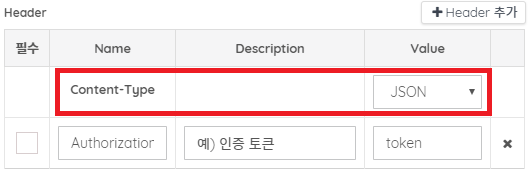
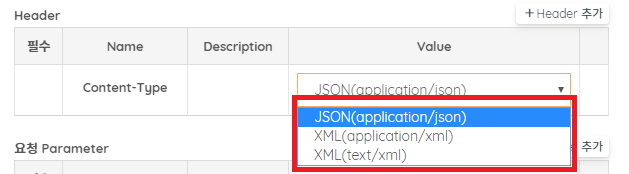
API노드/관리 DOCS 현행화

diff --git a/_layouts/page.html b/_layouts/page.html
@@ -42,14 +42,16 @@ layout: default
 
     {% if site.github_editme_path %}
 
-    <a target="_blank" href="https://github.com/{{site.github_editme_path}}{% unless page.url contains "index.html" %}pages/{% endunless %}{{page.folder}}{{page.url | remove: ".html" | append: ".md"}}" class="btn btn-default githubEditButton" role="button"><i class="fa fa-github fa-lg"></i> Edit me</a>
+<!--     <a target="_blank" href="https://github.com/{{site.github_editme_path}}{% unless page.url contains "index.html" %}pages/{% endunless %}{{page.folder}}/{{page.url | remove: ".html" | append: ".md"}}" class="btn btn-default githubEditButton" role="button"><i class="fa fa-github fa-lg"></i> Edit me</a> -->
+    <a target="_blank" href="https://github.com/{{site.github_editme_path}}/{{page.path}}" class="btn btn-default githubEditButton" role="button"><i class="fa fa-github fa-lg"></i> Edit me</a>
 
     {% endif %}
 
 
     {% if site.gitlab_editme_path %}
 
-    <a target="_blank" href="https://github.com/{{site.gitlab_editme_path}}{% unless page.url contains "index.html" %}pages/{% endunless %}{{page.folder}}{{page.url | remove: ".html" | append: ".md"}}" class="btn btn-default githubEditButton" role="button"><i class="fa fa-gitlab fa-lg"></i> Edit me</a>
+<!--     <a target="_blank" href="https://github.com/{{site.gitlab_editme_path}}{% unless page.url contains "index.html" %}pages/{% endunless %}{{page.folder}}/{{page.url | remove: ".html" | append: ".md"}}" class="btn btn-default githubEditButton" role="button"><i class="fa fa-gitlab fa-lg"></i> Edit me</a> -->
+    <a target="_blank" href="https://github.com/{{site.gitlab_editme_path}}/{{page.path}}" class="btn btn-default githubEditButton" role="button"><i class="fa fa-gitlab fa-lg"></i> Edit me</a>
 
     {% endif %}
 

diff --git a/pages/danbeeDoc/C7_chatflow_api.md b/pages/danbeeDoc/C7_chatflow_api.md
@@ -64,17 +64,49 @@ API 선택시 기본적으로 'API관리'에 등록되었던 Value 값은 초기
 
 {% include image.html file="chatflow/00_api_node_parameters.png" max-width="900" caption="API노드 요청 Parameters" %}
 
-#### 출력 Parameter
+#### 응답 Parameter 와 출력 Parameters
 
 API 서비스로 Request를 성공적으로 보냈다면 응답(Response) 결과를 받게 됩니다.<br/>
-그 결과는 아래와 같이 JSON 데이터 구조가 Tree로 표현됩니다.(JSON형태로 받는 서비스에 한해서)<br/> 
-이렇게 응답으로 받은 데이터를 Parameter에 담아야 하는데, 이 역할을 하는 것이 '출력 Parameter'에 변수명과 JsonPath 표기된 부분입니다.<br/>
-응답으로 받은 데이터를 Parameter에 담기위해 매핑하고자 할 경우 두가지 방법이 있습니다.
+그 결과 데이터는 아래와 같이 Tree 로 표현되며, 이렇게 응답으로 받은 데이터를 '출력 Parameter'에 담아야 사용할 수 있습니다.<br/>
+이 담는 역할을 하는 것이 '출력 Parameters'에 추가한 변수와 이 변수에 매핑할 '응답 Parameter'의 Tree 경로입니다. 
+
+응답으로 받은 데이터를 Parameter에 담기위해 매핑을 하는 방법에는 다음 두가지 방법이 있습니다.
  - '출력 Parameters'의 JsonPath를 직접 입력(매핑할 경로 직접입력)
  - 'Api Tree'에서 노드를 drag&drop 으로 '출력 Parameters' JsonPath 입력부로 끌어오기(매핑할 경로 자동 입력)
 
-이와 같이 API Request를 통해 응답받은 데이터를 원하는 Parameter에 담아 사용할 수 있습니다.
-{% include image.html file="chatflow/00_api_node_response_tree.png" max-width="900" caption="API노드 출력 Parameters" %}
+이와 같이 API Request를 통해 응답받은 데이터를 원하는 '출력 Parameter'에 담아 사용할 수 있습니다.
+{% include image.html file="chatflow/00_api_node_response_tree.png" max-width="900" caption="API 응답 데이터 매핑하기" %}
+
+{% include note.html content="이제 배열과 JSON 객체를 원하는 Parameter에 담아 사용할 수 있습니다." %}
+
+이제 중간 노드에 해당하는 경로를 '출력 Parameters'의 변수로 매핑을 하면 해당 데이터 묶음을 사용할 수 있습니다.<br/>
+다만 Function Node를 이용해야 하며, 그 방법을 예시를 통해 알아보겠습니다.<br/>
+
+응답 결과를 표시하는 Tree는 크게 Root, Node, Leaf로 구성되어있습니다.
+- Root : 최상위를 의미 ($ 로 표시)
+- Node : 데이터 구조의 중간지점을 의미하며 Node 명을 key 로 사용 (첫번째 Node 명이 'node1' 일경우 $.node1 로 표시)
+- Leaf : 더이상 하위 Node가 없는 Node, 최하위 Node를 의미
+{% include image.html file="chatflow/00_api_node_response_tree_desc.png" max-width="900" caption="응답 파라미터 Tree" %}
+
+아래 그림과같이 'test' 라는 '출력 Parameter' 변수에 데이터 묶음(JSON객체, 배열)을 담는다고 할 때,
+{% include image.html file="chatflow/00_api_node_out_mapping.png" max-width="900" caption="응답 파라미터 Tree" %}
+JSON 객체의 경우<br/>
+&nbsp;&nbsp; 'soap:Body' 라는 객체를 담는다고 할 경우, 해당 노드를 마우스로 드래그 하거나 '$.soap:Envelope.soap:Body' 를 직접 입력하여 매핑합니다.<br/>
+배열의 경우 <br/>
+&nbsp;&nbsp; 'newAddressListAreaCd' 라는 배열을 담을경우, 해당 노드를 마우스로 드래그 하거나 '$.NewAddressListResponse.newAddressListAreaCd' 를 직접 입력하여 매핑합니다.
+
+매핑이 완료한 뒤 API Node 다음에 Function Node를 연결합니다.
+{% include image.html file="chatflow/00_api_node_to_fn_node.png" max-width="900" caption="응답 파라미터 Tree" %}
+연결한 Function Node에서 각 경우에 맞게 데이터를 Parsing 하여 사용합니다.
+{% include image.html file="chatflow/00_api_node_parsing.png" max-width="900" caption="Function Node에서의 Parsing" %}
+
+
+
+
+
+
+
+
 
 
 ### 샘플 시나리오 (오늘 날씨 어때?)

diff --git a/pages/danbeeDoc/G1_external_API_management.md b/pages/danbeeDoc/G1_external_API_management.md
@@ -59,8 +59,9 @@ API 등록 요청 화면 입니다.
     
 #### Header 와 Content Type 
 Header에는 여러가지 정보를 담을 수 있습니다.
-Content-Type도 그중 하나로써, 서버로 보내는 정보의 유형을 의미합니다.<br/>
-현재 JSON만 지원하며 추후 XML도 지원할 예정입니다.   
+Content-Type도 그중 하나로써, 서버로 보내는 정보의 유형을 의미하며 다음과 같은 형식을 지원합니다.<br/>
+- JSON : 'application/json' 가장 일반적인 JSON 형식
+- XML  : 'application/xml', 'text/xml' 두가지 방식을 지원하며 사용하려는 API에서 정의된 형식을 선택하시면 됩니다.
 {% include image.html file="external_API/02_api_manage_c_header.png" max-width="900" caption="Header와 Content-Type" %} 
 
 #### 요청 Parameter
@@ -78,9 +79,11 @@ Editor를 이용하여 직접 작성할 수도 있습니다 (현재, JSON 형식
 
 #### Response API Tree
 실행 성공시, Response API Tree에서 Tree 형태의 데이터가 조회됩니다.<br/>
-API 적용 결과 조회된 데이터를 Tree형태로 조회해서 보여줍니다. 실패시 아무런 데이터가 조회되지 않습니다. 
+API 적용 결과 조회된 데이터를 Tree형태로 조회해서 보여줍니다. 실패시 아무런 데이터가 조회되지 않습니다.
 {% include image.html file="external_API/02_api_manage_c_response_tree.png" max-width="900" caption="Response API Tree 예시" %}
-  
+{% include note.html content="이제 배열과 JSON 객체를 원하는 Parameter에 담아 사용할 수 있습니다." %}
+- 자세한 사항은 [API 노드](chatflow_api.html#응답-parameter-와-출력-parameters) 에서 확인해 주세요.
+
 #### 저장
 API 정보 정상 입력 후 **저장** 버튼을 클릭해, API 등록 정보를 저장합니다. 
 
